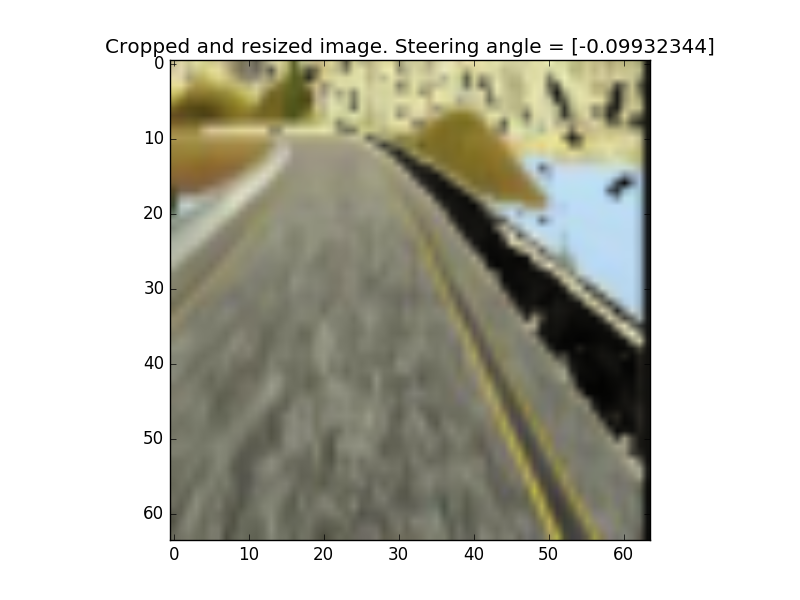
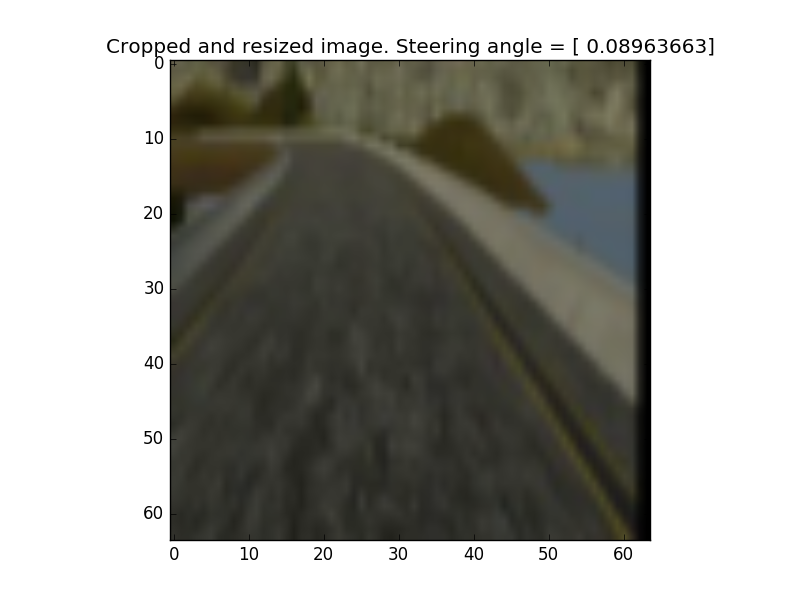
brightness correction. more images.

diff --git a/analyse_data.py b/analyse_data.py
@@ -65,27 +65,27 @@ for out in generate_arrays_from_file(train_log_file, 1):
   
   plt.imshow(img)
   plt.title('Original. Steering angle = {}'.format(angle))
-  # plt.savefig(img_dir + 'original_img2.png')
+  plt.savefig(img_dir + 'original_img2.png')
   plt.show()
   
   plt.imshow(img_trans)
   plt.title('Translated image. Steering angle = {}'.format(angle_trans))
-  # plt.savefig(img_dir + 'translated.png')
+  plt.savefig(img_dir + 'translated.png')
   plt.show()
   
   plt.imshow(img_bright)
   plt.title('Brightness augmentated image. Steering angle = {}'.format(angle_bright))
-  # plt.savefig(img_dir + 'brightness.png')
+  plt.savefig(img_dir + 'brightness.png')
   plt.show()
   
   plt.imshow(img_flip)
   plt.title('Flipped image. Steering angle = {}'.format(angle_flip))
-  # plt.savefig(img_dir + 'flip.png')
+  plt.savefig(img_dir + 'flip.png')
   plt.show()
   
   plt.imshow(img_resized)
   plt.title('Cropped and resized image. Steering angle = {}'.format(angle_flip))
-  # plt.savefig(img_dir + 'augment_resized.png')
+  plt.savefig(img_dir + 'augment_resized.png')
   plt.show()
   
   i += 1

diff --git a/utils.py b/utils.py
@@ -98,12 +98,7 @@ def flip_image(image, angle):
 def augment_brightness_camera_images(image):
   image1 = cv2.cvtColor(image,cv2.COLOR_RGB2HSV)
   random_bright = .25+np.random.uniform()
-  random_bright = 1.2
-  print(np.min(image1[:,:,2]))
-  img2 = image1.copy()
-  img2[:,:,2] = image1[:,:,2]*random_bright
-  print(np.min(img2[:,:,2]))
-  image1[:,:,2] = image1[:,:,2]*random_bright
+  image1[:,:,2] = np.minimum(image1[:,:,2]*random_bright, 255)
   image1 = cv2.cvtColor(image1,cv2.COLOR_HSV2RGB)
   return image1
     
@@ -121,8 +116,8 @@ def add_random_shadow(image):
   Y_m = np.mgrid[0:image.shape[0],0:image.shape[1]][1]
   shadow_mask[((X_m-top_x)*(bot_y-top_y) -(bot_x - top_x)*(Y_m-top_y) >=0)]=1
   if np.random.randint(4)==1:
-    # random_bright = .25+.7*np.random.uniform()
-    random_bright = .5
+    random_bright = .25+.7*np.random.uniform()
+    # random_bright = .5
     cond1 = shadow_mask==1
     cond0 = shadow_mask==0
     if np.random.randint(2)==1:

diff --git a/train_model.py b/train_model.py
@@ -84,11 +84,11 @@ if (save_mode == True ):
     model.save(model_filename)  # creates a HDF5 file 'model.h5'
     
     # POST PROCESSING, SAVE MODEL TO DISK
-    with open('model.json', 'w') as json_file:
-      json_file.write(model.to_json())
+    # with open('model.json', 'w') as json_file:
+      # json_file.write(model.to_json())
 
     # save weights as model.h5
-    model.save_weights('model_weights.h5')
+    # model.save_weights('model_weights.h5')
 
     print('Model saved.')
     

diff --git a/README.md b/README.md
@@ -25,8 +25,8 @@ The goals / steps of this project are the following:
 [LR0250125]: ./analysis/translation_LR_34_64288_0.25_0.12.png
 [gauss025015]: ./analysis/gauss_translation_LR_34_64288_0.25_0.15.png
 [side_cameras]: ./analysis/LR_34_8036.png
-[generated_img_C]: ./analysis/augmented_C
-[generated_img_R]: ./analysis/augmented_R
+[generated_img_C]: ./analysis/augmented_C.png
+[generated_img_R]: ./analysis/augmented_R.png
 
 ## Rubric Points
 ###Here I will consider the [rubric points](https://review.udacity.com/#!/rubrics/432/view) individually and describe how I addressed each point in my implementation.  
@@ -41,7 +41,7 @@ My project includes the following files:
 * models.py containing a couple of models in Keras to choose for in train_model.py
 * utils.py containing several utilitarian functions used all over the project
 * params.py with a number of parameters to configure the project (epochs, batch_size, data augmentation parameters, etc)
-* analyse_data.py for analysis of the training data.
+[//]: # (* analyse_data.py for analysis of the training data.)
 * drive.py for driving the car in autonomous mode
 * model.h5 containing a trained convolution neural network 
 * writeup_report.md or writeup_report.pdf summarizing the results
@@ -119,7 +119,7 @@ The final model architecture (model.py lines 18-24) consisted of a convolution n
 
 ![Final model][model]
 
-
+All max pooling layers are 2x2, and every single layer in the architecture is followed by an ELU activation (except for the preprocessing blocks, clearly).
 
 
 ### Analysis and augmentation of the training data
@@ -175,7 +175,11 @@ In order to overcome this problem, I came up with the idea of generating these s
 
 Another improvement for data augmentation was to randomly flip half of the training images and invert the corresponding steering angle, equalizing the amount of left and right turns.
 
-To make the model more robust, I also augment brightness randomly to simulate day and night conditions. This was fundamental in order to autonomously drive in the other track provided in the simulator.
+To make the model more robust, I also augment/decrease brightness randomly to simulate day and night conditions. This was fundamental in order to autonomously drive in the other track provided in the simulator. The original code for this tweak was taken from internet, but it had problems. When the brightness was reduced it worked well. However, when the brightness was augmented for pixel beyond 255, the result was not certainly what I expected. For example, when the result was 256, it was turned into 256 - 255 = 1. So I added a saturation block in the HSV space (utils.py, line 101), consisting of:
+
+    image1[:,:,2] = np.minimum(image1[:,:,2]*random_bright, 255)
+
+This way we make sure that if the HSV "Value" level is at maximum, then it doesn't go beyond that.
 
 Furthermore, I also translated randomly the image in the vertical direction to simulate up and down slope of the road (this time with the uniform distribution to bound clearly this shift). For the record, I set the horizontal translation shift to 
 WIDTH/20 (8 pixels) and the vertical one to HEIGHT/50 (6.4 pixels). 
